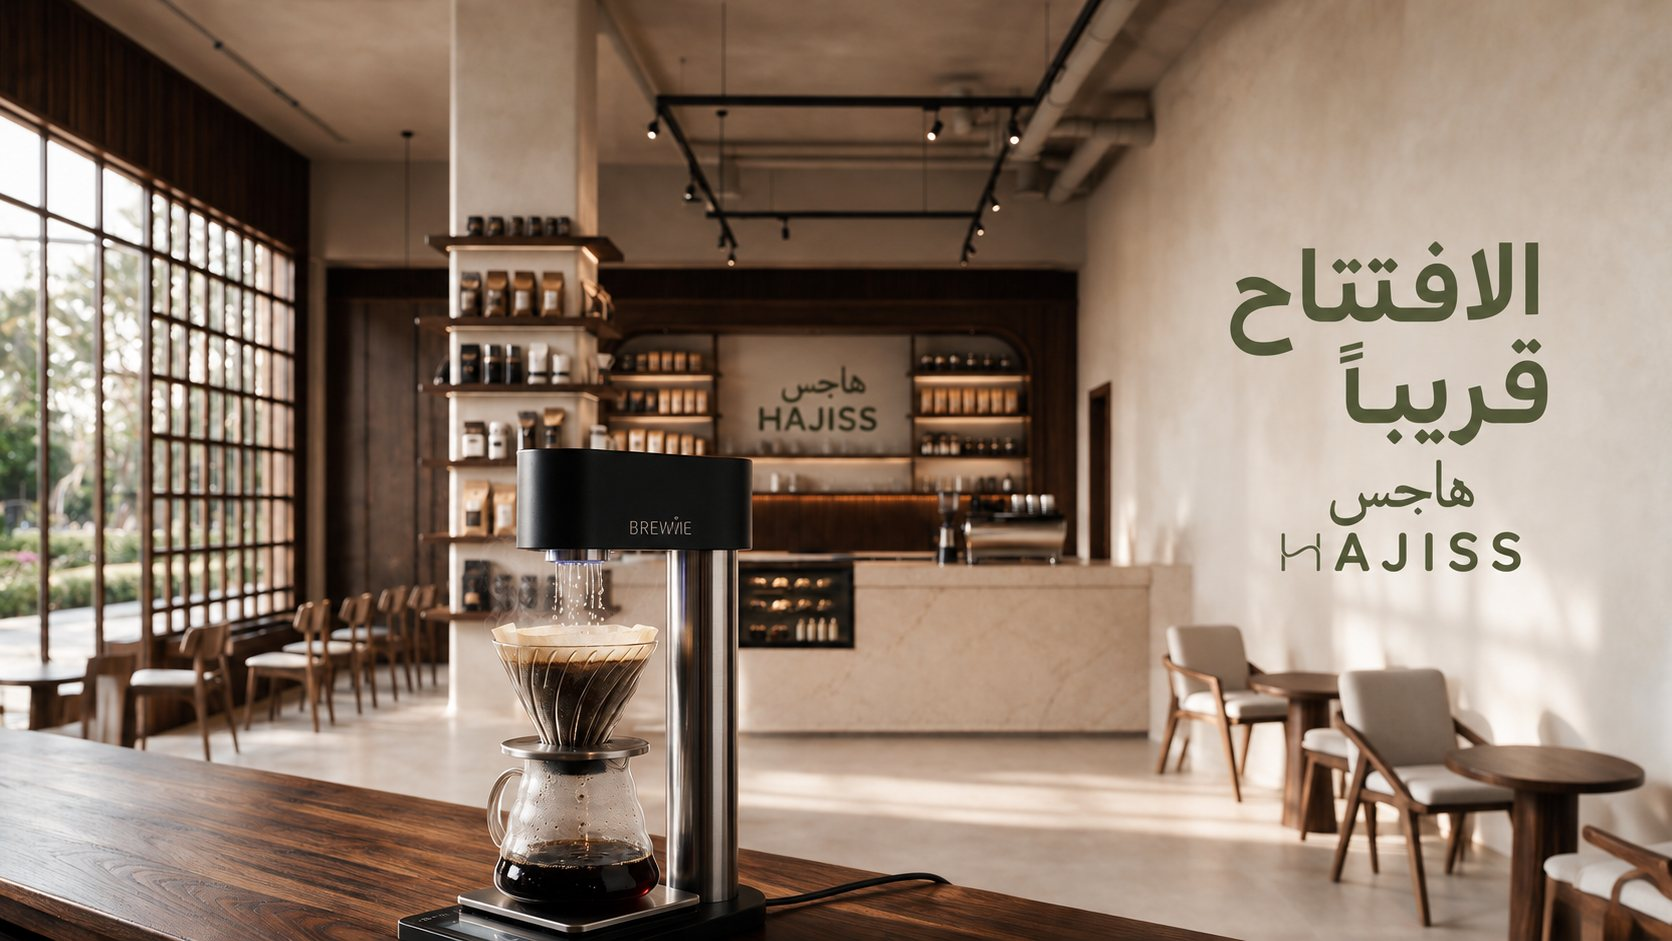
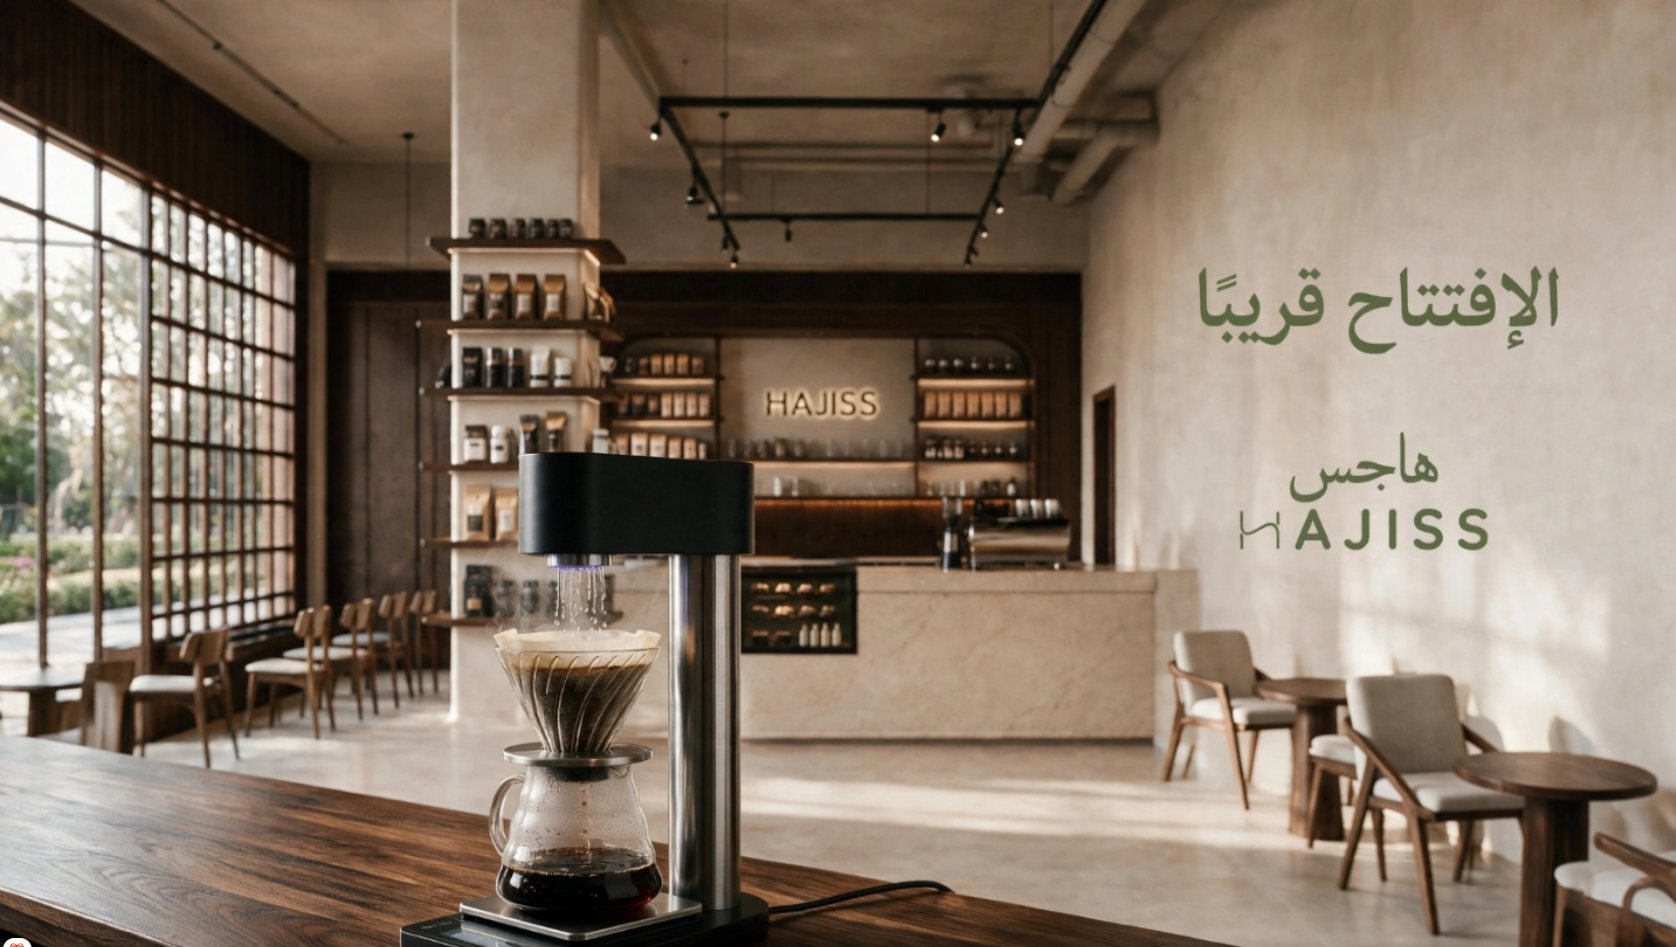
headeds

diff --git a/src/components/Hero.tsx b/src/components/Hero.tsx
@@ -10,8 +10,8 @@ const heroImages: { src: string; srcEn?: string; alt: string; altEn: string }[] 
     altEn: 'The Hajiss café storefront at night',
   },
   {
-    // The full English composition is used for both languages: the Arabic overlay was cropped on phones.
-    src: '/images/hero-opening-soon-en.jpg',
+    src: '/images/hero-opening-soon-ar.jpg',
+    srcEn: '/images/hero-opening-soon-en.jpg',
     alt: 'الافتتاح قريباً — هاجس',
     altEn: 'Opening soon — Hajiss',
   },
